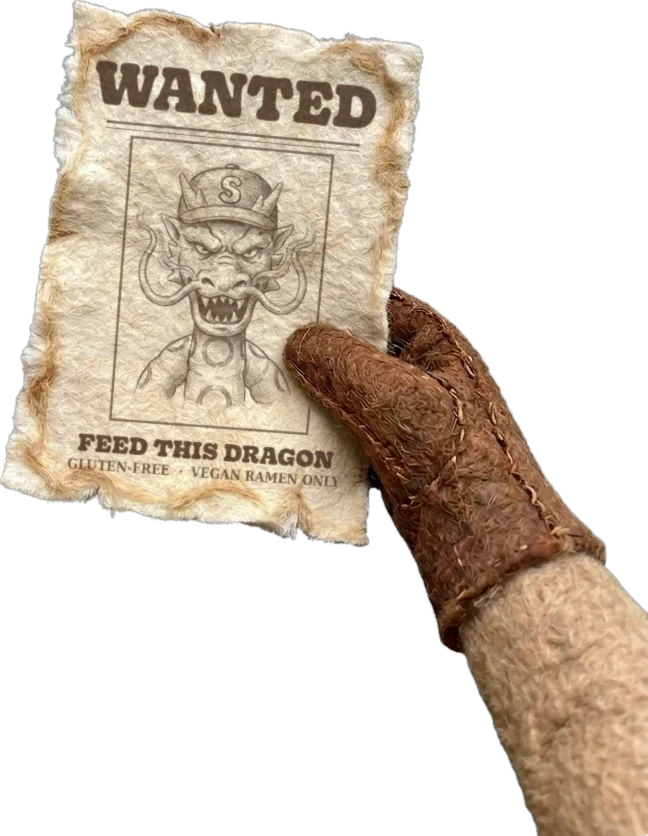
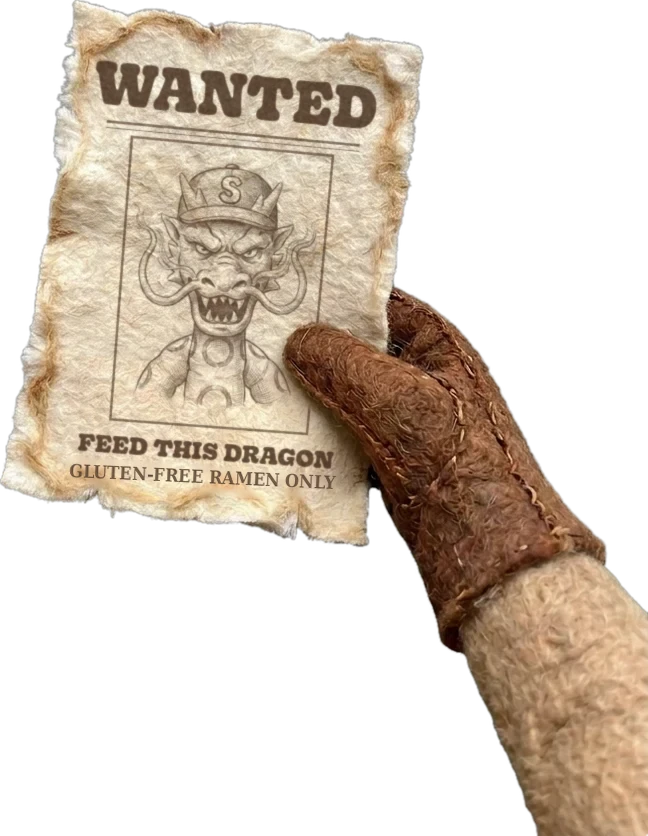
Felt water drops, splash crowns and puddles; no burner shadow; poster says gluten-free ramen only
Claude-Session: https://claude.ai/code/session_013W8aaY5LYoDY942QMaSBcA

Changed region(s): [[0.0926, 0.5287, 0.5247, 0.622]]

diff --git a/kitchen.html b/kitchen.html
@@ -435,12 +435,13 @@ function step(){
   for(const d of S.drops){d.vy+=.3;d.x+=d.vx;d.y+=d.vy;d.age=(d.age||0)+1;
     const overPot=Math.abs(d.x-POT.x)<POT.rx-6&&d.y>sY-4&&d.y<POT.base;
     if(d.vy>0&&overPot&&(!d.splash||d.age>6)){d.dead=true;pot.V=Math.min(.95,pot.V+d.vol*.95);{const i=potIndex(d.x),f=d.vy*(d.splash?.02:.006);v[i]-=f;if(i>0)v[i-1]-=f*.5;if(i<N-1)v[i+1]-=f*.5;}
-      if(!d.splash&&d.vy>7&&Math.random()<(d.vy-7)*.08)S.drops.push({x:d.x,y:sY-2,vx:rnd(-2.6,2.6),vy:-rnd(2.5,4.5),r:rnd(1.2,2),vol:0,floor:rnd(TOP.y0,TOP.y1),splash:true,age:0});continue;}
+      if(!d.splash&&d.vy>7&&Math.random()<(d.vy-7)*.08){S.drops.push({x:d.x,y:sY-2,vx:rnd(-2.6,2.6),vy:-rnd(2.5,4.5),r:rnd(1.2,2),vol:0,floor:rnd(TOP.y0,TOP.y1),splash:true,age:0});crown(d.x,sY,true);}continue;}
     /* drops only pool on the tabletop: past its edges they keep falling out of view, and over the burner they land in front of it */
     if(d.y>=d.floor&&!(Math.abs(d.x-POT.x)<POT.rx+4&&d.y<POT.base+4)&&!TOP.inside(d.x,d.floor)){d.floor=1e4;}
     if(d.y>=d.floor&&d.x>TOP.bl&&d.x<TOP.br&&d.floor<TOP.bf){d.floor=rnd(TOP.bf,TOP.y1);}
     if(d.y>=d.floor&&!(Math.abs(d.x-POT.x)<POT.rx+4&&d.y<POT.base+4)){d.dead=true;S.spilled+=d.vol*.95;
-      let pd=S.puddles.find(q=>Math.abs(q.x-d.x)<q.w*.6+6&&Math.abs(q.y-d.floor)<12);if(!pd){pd={x:d.x,y:d.floor,w:4};S.puddles.push(pd);}pd.w=Math.min(70,pd.w+.45);}}
+      let pd=S.puddles.find(q=>Math.abs(q.x-d.x)<q.w*.6+6&&Math.abs(q.y-d.floor)<12);if(!pd){pd={x:d.x,y:d.floor,w:4,v:Math.random()*8|0};S.puddles.push(pd);}pd.w=Math.min(70,pd.w+.45);if(d.vy>5&&Math.random()<.2)crown(d.x,d.floor,false);}}
+  if(S.crowns){for(const c of S.crowns)c.t++;S.crowns=S.crowns.filter(c=>c.t<16);}
   S.drops=S.drops.filter(d=>{if(d.dead)return false;if(d.x>-20&&d.x<W+20&&d.y<H+20)return true;S.spilled+=d.vol*.95;return false;});
   /* step 1: flame. each hit raises it, it sinks between hits, and once it tops out it stays on */
   if(S.step===1&&!S.lit)S.flame=Math.max(0,S.flame-.006);
@@ -508,9 +509,27 @@ function drawSR(part){const im=ART.sr;if(!ok(im))return false;
   const fy=(SR.cut-SR.y)/SR.h*im.naturalHeight;
   if(part==='room')g.drawImage(im,0,0,im.naturalWidth,fy,SR.x,SR.y,SR.w,SR.cut-SR.y);
   else g.drawImage(im,0,fy,im.naturalWidth,im.naturalHeight-fy,SR.x,SR.cut,SR.w,SR.y+SR.h-SR.cut);return true;}
+/* felt water: drops, splash crowns and table puddles (art/kitchen/water) */
+const WTR={};for(const [k,n] of [['ball',4],['tear',4],['crown',3],['pud',8],['dots',3]])WTR[k]=[...Array(n)].map((_,i)=>Object.assign(new Image(),{src:`art/kitchen/water/${k}${i}.webp`}));
+const wOk=k=>WTR[k].every(ok);
+function crown(x,y,big){S.crowns=S.crowns||[];if(S.crowns.length<14)S.crowns.push({x,y,t:0,v:Math.random()*3|0,s:big?1:.7});}
 let KPF=null;
 function kplateF(){if(KPF)return KPF;const im=ART.kplate,c=document.createElement('canvas');c.width=im.naturalWidth;c.height=im.naturalHeight;const x=c.getContext('2d');x.drawImage(im,0,0);
   x.globalCompositeOperation='destination-out';const y0=c.height*.94,gr=x.createLinearGradient(0,y0,0,c.height);gr.addColorStop(0,'rgba(0,0,0,0)');gr.addColorStop(1,'rgba(0,0,0,1)');x.fillStyle=gr;x.fillRect(0,y0,c.width,c.height-y0);return KPF=c;}
+function drawPuddles(){for(const p of S.puddles){
+    if(wOk('pud')&&wOk('dots')){const small=p.w<10,im=small?WTR.dots[p.v%3]:WTR.pud[p.v],w=small?16:p.w*1.15,h=w*im.naturalHeight/im.naturalWidth*(small?.6:.5);
+      g.globalAlpha=.92;g.drawImage(im,p.x-w/2,p.y-h/2,w,h);g.globalAlpha=1;}
+    else{g.fillStyle='rgba(150,200,230,.55)';g.beginPath();g.ellipse(p.x,p.y,p.w*.5,3+p.w*.04,0,0,7);g.fill();}}}
+function drawDrops(){const felt=wOk('ball')&&wOk('tear');
+  for(const d of S.drops){if(!felt){g.fillStyle='rgba(140,195,235,.9)';g.beginPath();g.ellipse(d.x,d.y,d.r*.8,d.r*1.3,Math.atan2(d.vy,d.vx)-Math.PI/2,0,7);g.fill();continue;}
+    if(d.v===undefined)d.v=Math.random()*4|0;const sp=Math.hypot(d.vx,d.vy);
+    if(sp<2.5){const z=d.r*2.6;g.drawImage(WTR.ball[d.v],d.x-z/2,d.y-z/2,z,z);continue;}
+    /* a falling drop is a felt teardrop, its point trailing behind it */
+    const im=WTR.tear[d.v],h=d.r*(3.4+Math.min(1.4,sp*.12)),w=h*im.naturalWidth/im.naturalHeight;
+    g.save();g.translate(d.x,d.y);g.rotate(Math.atan2(d.vy,d.vx)-Math.PI/2);g.drawImage(im,-w/2,-h*.62,w,h);g.restore();}
+  /* splash crowns where drops hit the broth or the table: pop up and fade */
+  if(S.crowns&&wOk('crown'))for(const c of S.crowns){const u=c.t/16,im=WTR.crown[c.v],w=(9+u*12)*c.s,h=w*im.naturalHeight/im.naturalWidth;
+    g.globalAlpha=Math.min(1,(1-u)*1.6);g.drawImage(im,c.x-w/2,c.y-h*.8,w,h*(.6+.4*Math.sin(Math.min(1,u*2)*Math.PI/2)));g.globalAlpha=1;}}
 function usePlate(){return ok(ART.sr)&&S.hero===0&&!S.guideMode;}
 function drawRoomImg(force){if(usePlate()&&!force)return;const im=ART.room;if(!ok(im)){drawRoom();return;}
   g.save();camOn();g.drawImage(im,0,0,768,1376);
@@ -712,7 +731,7 @@ function draw(){
   const vk=viewK();g.save();g.translate(240,720-panY());g.scale(vk,vk);g.translate(-240,-720);
   if(e<1){g.save();g.translate(0,-e*1100);if(e>0){g.beginPath();g.rect(-400,-900,1300,1460);g.clip();}if(!(e>0&&drawSR('room')))drawRoomImg();g.restore();
     g.save();g.translate(0,off);if(!(e>0&&drawSR('table')))drawTable();g.restore();
-    g.save();g.translate(0,off);for(const p of S.puddles){g.fillStyle='rgba(150,200,230,.55)';g.beginPath();g.ellipse(p.x,p.y,p.w*.5,3+p.w*.04,0,0,7);g.fill();}
+    g.save();g.translate(0,off);drawPuddles();
     drawBurner();g.restore();}
   g.save();g.translate(hx,hy);g.scale(sc,sc);g.translate(-POT.x,-POT.base);drawPot();
   /* the noodles in the pot are the target while they cook */
@@ -722,7 +741,7 @@ function draw(){
   drawPitcher();
   if(S.bag)drawBag(S.bag);if(S.packs)for(const p of S.packs)drawPack(p);
   if(S.brick&&!S.brick.inPot)drawBrick(S.brick,false);
-  g.fillStyle='rgba(140,195,235,.9)';for(const d of S.drops){g.beginPath();g.ellipse(d.x,d.y,d.r*.8,d.r*1.3,Math.atan2(d.vy,d.vx)-Math.PI/2,0,7);g.fill();}
+  drawDrops();
   for(const q of S.powder){g.fillStyle=q.c;g.fillRect(q.x-1,q.y-1,2.2,2.2);}
   drawTimer();
   /* placed toppings, then the ones still dropping in: they fall from above, fade in and settle with a little squash */
@@ -754,8 +773,7 @@ function spr(k,x,y,w,h,flash){const im=SPR[k];if(!ok(im))return false;if(h==null
 function sprC(k,w,flash){const im=SPR[k];if(!ok(im))return false;const h=w*im.naturalHeight/im.naturalWidth;return spr(k,-w/2,-h/2,w,h,flash);}
 const SB=.245,BIMG={ox:240-330*SB,oy:494-110*SB};
 function drawBurner(){if(!ok(SPR.burner)||!ok(SPR.knob))return drawBurnerOld();
-  {g.fillStyle='rgba(50,25,10,.3)';g.beginPath();g.ellipse(BIMG.ox+105,BIMG.oy+118,108,9,0,0,7);g.fill();
-  spr('burner',BIMG.ox,BIMG.oy,844*SB);}
+  spr('burner',BIMG.ox,BIMG.oy,844*SB);
   const fl=S.lit?1:S.flame;
   /* blue flames around the bottom of the pot; the back half of the ring is masked by the pot's body */
   if(fl>.02){const x0=POT.x,rim=potRim(),bs=POT.base;
